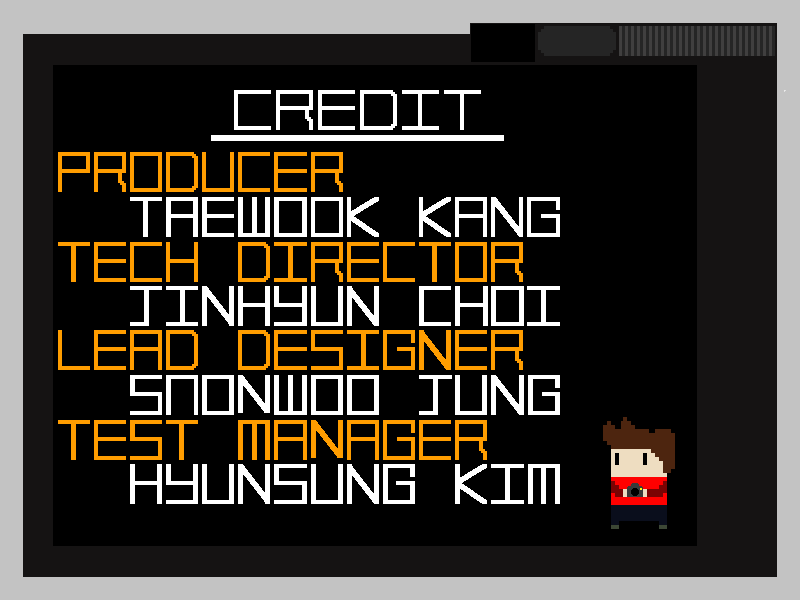
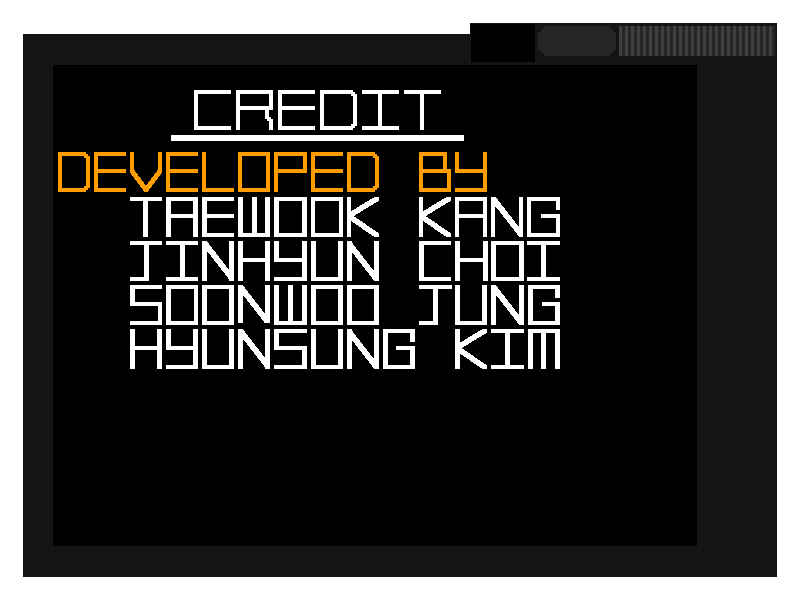
credit page updated

diff --git a/Team_Boleh/Credit.cpp b/Team_Boleh/Credit.cpp
@@ -65,6 +65,31 @@ void Credit::Initialize()
 	m_credit3->AddComponent(new Sprite("asset/images/Page/CreditPage3.png"));
 	m_credit3->GetMesh().Invisible();
 
+	m_credit4 = new Object();
+        m_credit4->SetTranslation({ 0, 0 });
+        m_credit4->SetScale({ 1200,900 });
+        m_credit4->SetDepth(BACKGROUND);
+        m_credit4->SetMesh(mesh::CreateBox(1, { 255,255,255,255 }));
+        m_credit4->SetObjectType(ObjectType::Background);
+        m_credit4->AddComponent(new Sprite("asset/images/Page/CreditPage4.png"));
+        m_credit4->GetMesh().Invisible();
+	m_credit5 = new Object();
+        m_credit5->SetTranslation({ 0, 0 });
+        m_credit5->SetScale({ 1200,900 });
+        m_credit5->SetDepth(BACKGROUND);
+        m_credit5->SetMesh(mesh::CreateBox(1, { 255,255,255,255 }));
+        m_credit5->SetObjectType(ObjectType::Background);
+        m_credit5->AddComponent(new Sprite("asset/images/Page/CreditPage5.png"));
+        m_credit5->GetMesh().Invisible();
+	m_credit6 = new Object();
+        m_credit6->SetTranslation({ 0, 0 });
+        m_credit6->SetScale({ 1200,900 });
+        m_credit6->SetDepth(BACKGROUND);
+        m_credit6->SetMesh(mesh::CreateBox(1, { 255,255,255,255 }));
+        m_credit6->SetObjectType(ObjectType::Background);
+        m_credit6->AddComponent(new Sprite("asset/images/Page/CreditPage6.png"));
+        m_credit6->GetMesh().Invisible();
+
 	button = new Object();
 	button->SetTranslation({ 310.f, 280.f});
 	button->SetScale({ 182,96 });
@@ -76,6 +101,9 @@ void Credit::Initialize()
 	Objectmanager_.AddObject(m_credit1);
 	Objectmanager_.AddObject(m_credit2);
 	Objectmanager_.AddObject(m_credit3);
+	Objectmanager_.AddObject(m_credit4);
+	Objectmanager_.AddObject(m_credit5);
+	Objectmanager_.AddObject(m_credit6);
 	Objectmanager_.AddObject(mouse_icon);
 	Objectmanager_.AddObject(background);
 
@@ -88,9 +116,9 @@ void Credit::Update(float dt)
 
 	timer += dt;
 
-	if(!page2 && !page3)
+	if(!page2 && !page3 && !page4 && !page5 && !page6)
 	{
-		if(timer > 3.f)
+		if(timer > 2.f)
 		{
 			page2 = true;
 			page1 = false;
@@ -98,11 +126,26 @@ void Credit::Update(float dt)
 	}
 	else
 	{
-		if(timer > 6.f)
+		if(timer > 4.f&& timer < 6.f)
 		{
 			page2 = false;
 			page3 = true;
 		}
+            else if(timer > 6.f && timer < 8.f)
+            {
+                page3 = false;
+                page4 = true;
+            }
+            else if(timer > 8.f&& timer < 10.f)
+            {
+                page4 = false;
+                page5 = true;
+            }
+            else if(timer > 10.f&& timer < 12.f)
+            {
+                page5 = false;
+                page6 = true;
+            }
 	}
 
 	if(page1)
@@ -126,12 +169,44 @@ void Credit::Update(float dt)
 	if(page3)
 	{
 		m_credit3->GetMesh().Visible();
-		if(timer > 9.f)
-			StateManager_.BackToMainMenu();
+	}
+        else
+        {
+            m_credit3->GetMesh().Invisible();
+        }
+	if(page4)
+	{
+		m_credit4->GetMesh().Visible();
+	}
+        else
+        {
+            m_credit4->GetMesh().Invisible();
+        }
+	if(page5)
+	{
+		m_credit5->GetMesh().Visible();
+	}
+        else
+        {
+            m_credit5->GetMesh().Invisible();
+        }
+	if(page6)
+	{
+		m_credit6->GetMesh().Visible();
+                if (timer > 14.f)
+                {
+                    page1 = true;
+                    page2 = false;
+                    page3 = false;
+                    page4 = false;
+                    page5 = false;
+                    page6 = false;
+                    StateManager_.BackToMainMenu();
+                }
 	}
 	else
 	{
-		m_credit3->GetMesh().Invisible();
+		m_credit6->GetMesh().Invisible();
 	}
 
     if (Input::IsKeyAnyTriggered())
@@ -163,6 +238,7 @@ void Credit::ShutDown()
 	m_credit1 = nullptr;
 	m_credit2 = nullptr;
 	m_credit3 = nullptr;
+	m_credit4 = nullptr;
 	mouse_icon = nullptr;
 	button = nullptr;
 }

diff --git a/Team_Boleh/Credit.hpp b/Team_Boleh/Credit.hpp
@@ -30,12 +30,18 @@ private:
 	Object* m_credit1 = nullptr;
 	Object* m_credit2 = nullptr;
 	Object* m_credit3 = nullptr;
+	Object* m_credit4 = nullptr;
+	Object* m_credit5 = nullptr;
+	Object* m_credit6 = nullptr;
 	Object* mouse_icon = nullptr;
         Object* button = nullptr;
 
 	bool page1 = true;
 	bool page2 = false;
 	bool page3 = false;
+	bool page4 = false;
+	bool page5 = false;
+	bool page6 = false;
 
 	float timer = 0.f;
 };
